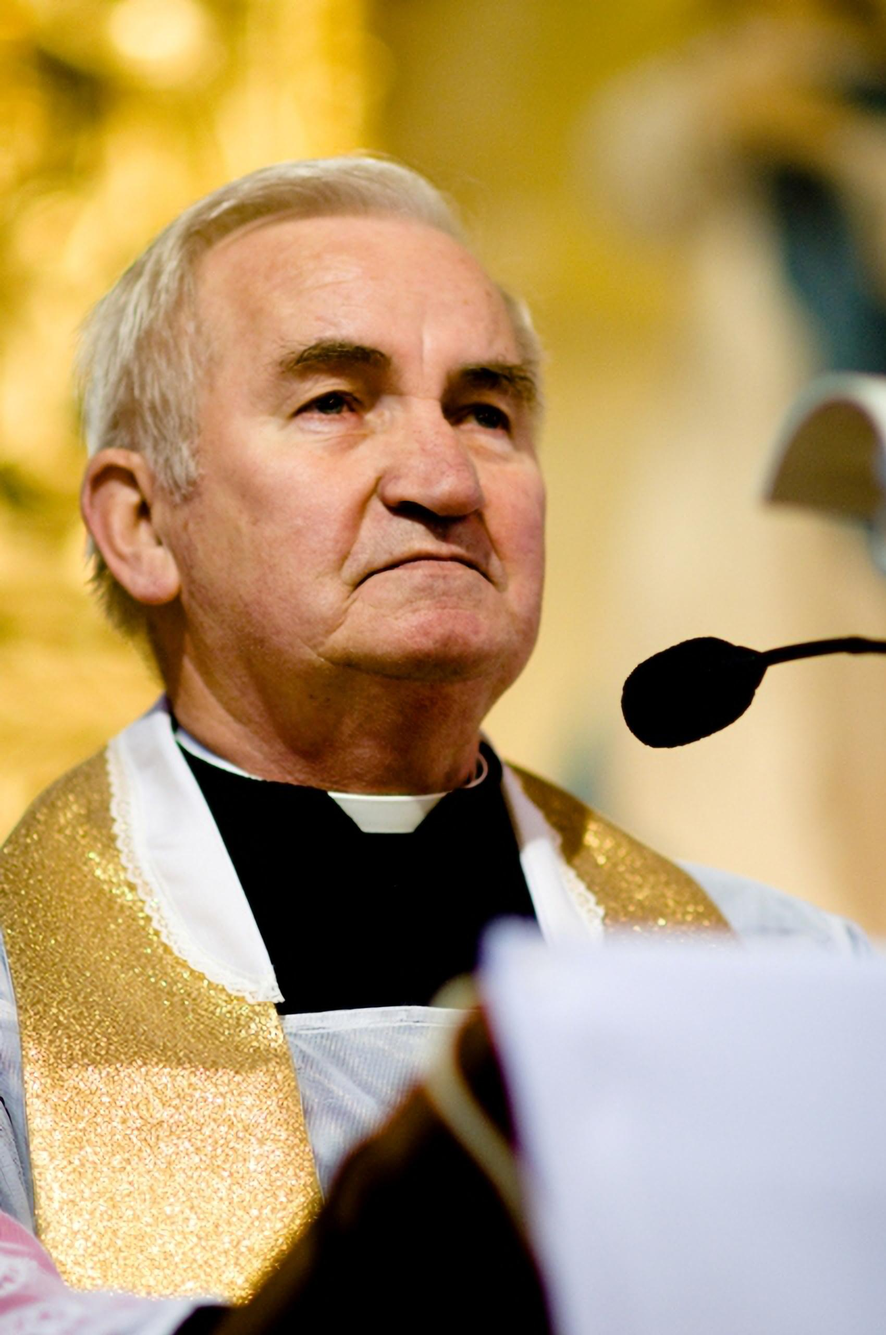
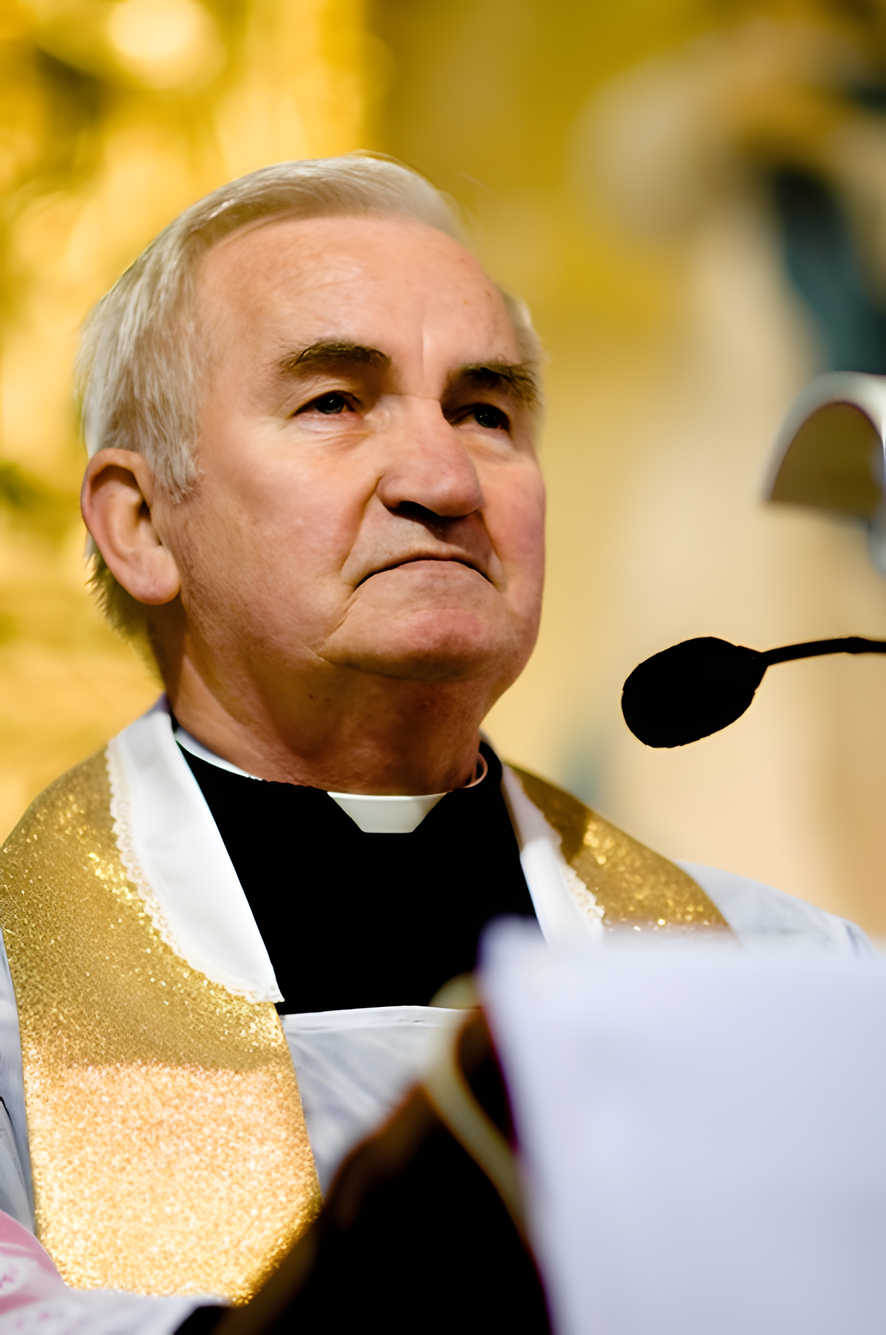
SCSS for section intro

diff --git a/index.html b/index.html
@@ -61,22 +61,27 @@
                             <use xlink:href="img/symbol-defs.svg#icon-youtube"></use>
                         </svg>
                     </a>
-                </div> 
+                </div>
+                
+                <span class="page-welcome-wrapper__arrow-down">&darr;</span>
             </div>    
         </header>
 
         <main class="main-content">
             <section class="section-intro" id="intro">
-                <h2 class="heading heading-2">Ksiądz Prałat Franciszek Skorusa</h2>
-                <p class="section-intro__text">
-                    Ksiądz Prałat Franciszek Skorusa to pierwszy proboszcz parafii oraz budowniczy kościoła Najświętszej Maryi Panny Nieustającej Pomocy we Wrocławiu-Muchoborze Małym.
-                    Urzeczeni Jego niezłomnym świadectwem wiary, zaufaniem, jakim obdarzał nasze inicjatywy, oraz serdecznością, jaką otaczał każdego człowieka, postanowiliśmy stworzyć miejsce, w którym można Go wspominać, ale też lepiej poznać nie tylko jako kapłana, ale też jako przyjaciela i wzór godny naśladowania.                
-                </p>
-                <div class="section-intro__image-frame">
-                    <img src="" title="Ksiądz Franciszek" alt="Franciszek Skorusa podczas głoszenia homiliid" class="section-intro__image">
+                <div class="section-intro__wrapper">
+                    <div class="section-intro__content-frame">
+                        <h2 class="heading-2 heading--intro">Ksiądz Prałat Franciszek Skorusa</h2>
+                        <p class="section-intro__text u-margin-top-small">
+                            Ksiądz Prałat Franciszek Skorusa to pierwszy proboszcz parafii oraz budowniczy kościoła Najświętszej Maryi Panny Nieustającej Pomocy we Wrocławiu-Muchoborze Małym.
+                            Urzeczeni Jego niezłomnym świadectwem wiary, zaufaniem, jakim obdarzał nasze inicjatywy, oraz serdecznością, jaką otaczał każdego człowieka, postanowiliśmy stworzyć miejsce, w którym można Go wspominać, ale też lepiej poznać nie tylko jako kapłana, ale też jako przyjaciela i wzór godny naśladowania.                
+                        </p>
+                    </div>
+                    <img src="./img/skorusa-homilia.jpg" title="Ksiądz Franciszek" alt="Franciszek Skorusa podczas głoszenia homiliid" class="section-intro__image">
                 </div>
             </section>
             <section class="section-timelapse" id="timelapse">
+                <h2 class="heading-2 heading--primary">Życie</h2>
                 <div class="section-timelapse__stage-wrapper section-timelapse__stage-wrapper--1">
                     <h2 class="heading heading-3">Przyjście na świat</h2>
                     <h3 class="heading heading-2">1940</h3>
@@ -85,9 +90,9 @@
                     Urzeczeni Jego niezłomnym świadectwem wiary, zaufaniem, jakim obdarzał nasze inicjatywy, oraz serdecznością, jaką otaczał każdego człowieka, postanowiliśmy stworzyć miejsce, w którym można Go wspominać, ale też lepiej poznać nie tylko jako kapłana, ale też jako przyjaciela i wzór godny naśladowania.
                     </p> 
                 </div>
-                <img src="" alt="" class="img img-1">
+                <img src="/img/timeline-photo-1.jpg" alt="" class="img img-1">
 
-                <div class="section-timelapse__stage-wrapper section-timelapse__stage-wrapper--1">
+                <div class="section-timelapse__stage-wrapper section-timelapse__stage-wrapper--2">
                     <h2 class="heading heading-3">Prymicje</h2>
                     <h3 class="heading heading-2">1960&nbsp;&ndash;&nbsp;1966</h3>
                     <p class="section-timelapse__stage-wrapper-text">
@@ -95,9 +100,9 @@
                         Urzeczeni Jego niezłomnym świadectwem wiary, zaufaniem, jakim obdarzał nasze inicjatywy, oraz serdecznością, jaką otaczał każdego człowieka, postanowiliśmy stworzyć miejsce, w którym można Go wspominać, ale też lepiej poznać nie tylko jako kapłana, ale też jako przyjaciela i wzór godny naśladowania.
                     </p> 
                 </div>
-                <img src="" alt="" class="img img-2">
+                <img src="/img/timeline-photo-2.jpg" alt="" class="img img-2">
 
-                <div class="section-timelapse__stage-wrapper section-timelapse__stage-wrapper--1">
+                <div class="section-timelapse__stage-wrapper section-timelapse__stage-wrapper--3">
                     <h2 class="heading heading-3">Wikariat</h2>
                     <h3 class="heading heading-2">1966&nbsp;&ndash;&nbsp;1980</h3>
                     <p class="section-timelapse__stage-wrapper-text">
@@ -105,9 +110,9 @@
                             Urzeczeni Jego niezłomnym świadectwem wiary, zaufaniem, jakim obdarzał nasze inicjatywy, oraz serdecznością, jaką otaczał każdego człowieka, postanowiliśmy stworzyć miejsce, w którym można Go wspominać, ale też lepiej poznać nie tylko jako kapłana, ale też jako przyjaciela i wzór godny naśladowania.
                         </p> 
                     </div>
-                <img src="" alt="" class="img img-3">
+                <img src="/img/timeline-photo-3.jpg" alt="" class="img img-3">
 
-                <div class="section-timelapse__stage-wrapper section-timelapse__stage-wrapper--1">
+                <div class="section-timelapse__stage-wrapper section-timelapse__stage-wrapper--4">
                     <h2 class="heading heading-3">Probostwo</h2>
                     <h3 class="heading heading-2">1980&nbsp;&ndash;&nbsp;2010</h3>
                     <p class="section-timelapse__stage-wrapper-text">
@@ -116,17 +121,17 @@
                     </p> 
                 </div>
 
-                <img src="" alt="" class="img img-4">
+                <img src="/img/timeline-photo-4.jpg" alt="" class="img img-4">
 
-                <div class="section-timelapse__stage-wrapper section-timelapse__stage-wrapper--1">
-                    <h2 class="heading heading--tertiary">Odejście</h2>
-                    <h3 class="heading heading--secondary">2010</h3>
+                <div class="section-timelapse__stage-wrapper section-timelapse__stage-wrapper--5">
+                    <h2 class="heading heading-3">Odejście</h2>
+                    <h3 class="heading heading-2">2010</h3>
                     <p class="section-timelapse__stage-wrapper-text">
                         Ksiądz Prałat Franciszek Skorusa to pierwszy proboszcz parafii oraz budowniczy kościoła Najświętszej Maryi Panny Nieustającej Pomocy we Wrocławiu-Muchoborze Małym.
                         Urzeczeni Jego niezłomnym świadectwem wiary, zaufaniem, jakim obdarzał nasze inicjatywy, oraz serdecznością, jaką otaczał każdego człowieka, postanowiliśmy stworzyć miejsce, w którym można Go wspominać, ale też lepiej poznać nie tylko jako kapłana, ale też jako przyjaciela i wzór godny naśladowania.
                     </p> 
                 </div>
-                <img src="" alt="" class="img img-5">
+                <img src="/img/timeline-photo-5.jpg" alt="" class="img img-5">
 
                 <div class="section-timelaps__line">&nbsp;</div>
             </section>

diff --git a/css/style.css b/css/style.css
@@ -1,3 +1,35 @@
+@keyframes jump {
+  0% {
+    transform: translateY(-0.5rem); }
+  50% {
+    transform: translateY(0.3rem); }
+  100% {
+    transform: translateY(-0.5rem); } }
+
+.section-intro {
+  display: flex;
+  align-items: center;
+  justify-content: center;
+  box-shadow: 0 1.5rem 4rem rgba(66, 66, 66, 0.1); }
+  .section-intro__wrapper {
+    display: flex;
+    align-items: center;
+    justify-content: center;
+    max-width: 50rem; }
+  .section-intro__content-frame {
+    padding: 5rem;
+    text-align: right; }
+  .section-intro__image {
+    height: 100%;
+    object-fit: cover;
+    display: block;
+    margin-left: auto;
+    padding: 1rem;
+    box-shadow: 0 1.5rem 4rem rgba(66, 66, 66, 0.1); }
+  .section-intro__text {
+    font-size: 1.1rem;
+    margin-right: auto; }
+
 .heading-1 {
   font-size: 1.5rem; }
 
@@ -11,7 +43,14 @@
   color: #C9C550; }
 
 .heading--light {
-  color: #fff; }
+  color: #fafafa; }
+
+.heading--intro {
+  font-size: 1.8rem;
+  display: inline-block;
+  background-image: linear-gradient(to right, #C9C550, #c8c44d);
+  -webkit-background-clip: text;
+  color: transparent; }
 
 .page-header {
   height: 100vh;
@@ -29,21 +68,33 @@
   display: flex;
   flex-direction: column;
   background-image: linear-gradient(rgba(66, 66, 66, 0.48), rgba(66, 66, 66, 0.48)), url(../img/background-photo-large.jpg);
-  background-size: cover; }
+  background-size: cover;
+  background-repeat: no-repeat; }
   .page-welcome-wrapper__socialmedia-icons {
     position: absolute;
     right: 0;
     bottom: 0;
     padding: 1.5rem; }
   .page-welcome-wrapper__socialmedia-link {
-    display: block; }
+    display: block;
+    color: #fafafa; }
   .page-welcome-wrapper__socialmedia-icon {
     max-width: 2rem;
     max-height: 3.2rem;
-    fill: #fff; }
-
-.heading-primary {
-  font-family: "Rosario", sans-serif; }
+    fill: currentColor; }
+  .page-welcome-wrapper__arrow-down {
+    width: 5rem;
+    height: 5rem;
+    color: #fafafa;
+    font-size: 3rem;
+    text-align: center;
+    position: absolute;
+    bottom: 0;
+    left: 0;
+    animation-name: jump;
+    animation-duration: 1s;
+    animation-iteration-count: infinite;
+    animation-fill-mode: both; }
 
 .u-margin-top-small {
   margin-top: 1.5rem; }
@@ -67,13 +118,15 @@ body {
   font-size: 62.5%;
   font-family: "Rosario", sans-serif;
   font-weight: 300;
-  font-smooth: antialiased;
-  -webkit-font-smoth: antialiased;
-  -moz-font-smooth: antialiased; }
+  font-smooth: always;
+  -webkit-font-smoothing: antialiased;
+  -moz-font-smoothing: antialiased; }
+  body img {
+    width: 300px; }
 
 ::selection {
   background-color: #C9C550;
-  color: #fff; }
+  color: #fafafa; }
 
 .btn:link, .btn:visited {
   display: block;
@@ -86,9 +139,9 @@ body {
   cursor: pointer; }
 
 .btn--primary {
-  color: #fff;
+  color: #fafafa;
   background-color: #C9C550; }
 
 .btn--light {
   color: #C9C550;
-  background-color: #fff; }
+  background-color: #fafafa; }

diff --git a/sass/layout/_header.scss b/sass/layout/_header.scss
@@ -19,6 +19,7 @@
         linear-gradient(rgba(#424242, .48), rgba(#424242, .48)), 
         url(../img/background-photo-large.jpg);
     background-size: cover;
+    background-repeat: no-repeat;
 
     &__socialmedia-icons {
         position: absolute;
@@ -29,12 +30,27 @@
 
     &__socialmedia-link {
         display: block;
+        color: $font-color-light;
     }
 
     &__socialmedia-icon {
         max-width: 2rem;
         max-height: 3.2rem;
-        fill: $font-color-light;
-        
+        fill: currentColor;
+    }
+
+    &__arrow-down {
+        width: 5rem;
+        height: 5rem;
+        color: $font-color-light;
+        font-size: 3rem;
+        text-align: center;
+        position: absolute;
+        bottom: 0;
+        left: 0;
+        animation-name: jump;
+        animation-duration: 1s;
+        animation-iteration-count: infinite;
+        animation-fill-mode: both;
     }
 }

diff --git a/sass/layout/_intro.scss b/sass/layout/_intro.scss
@@ -1,0 +1,33 @@
+.section-intro {
+
+    display: flex;
+    align-items: center;
+    justify-content: center;
+    box-shadow: 0 1.5rem 4rem rgba($font-color-dark, .1);
+
+    &__wrapper {
+        display: flex;
+        align-items: center;
+        justify-content: center;
+        max-width: 50rem;
+    }
+
+    &__content-frame {
+        padding: 5rem;
+        text-align: right;
+    }
+
+    &__image {
+        height: 100%;
+        object-fit: cover;
+        display: block;
+        margin-left: auto;
+        padding: 1rem;
+        box-shadow: 0 1.5rem 4rem rgba($font-color-dark, .1);
+    }
+
+    &__text {
+        font-size: 1.1rem;
+        margin-right: auto;
+    }
+}

diff --git a/sass/layout/_headings.scss b/sass/layout/_headings.scss
@@ -1,5 +1,4 @@
-.heading {
-    
+.heading { 
     &-1 { font-size: 1.5rem; }
     &-2 { font-size: 2.5rem; }
     &-3 { font-size: 2rem; }
@@ -10,5 +9,13 @@
 
     &--light {
         color: $font-color-light;
+    }
+
+    &--intro {
+        font-size: 1.8rem;
+        display: inline-block;
+        background-image: linear-gradient(to right, $color-primary, darken($color-primary, .7));
+        -webkit-background-clip: text;
+        color: transparent;
     }
 }

diff --git a/sass/base/_base.scss b/sass/base/_base.scss
@@ -12,9 +12,13 @@ body {
     font-size: 62.5%;
     font-family: $font-text;
     font-weight: 300;
-    font-smooth: antialiased;
-    -webkit-font-smoth: antialiased;
-    -moz-font-smooth: antialiased;
+    font-smooth: always;
+    -webkit-font-smoothing: antialiased;
+    -moz-font-smoothing: antialiased;
+
+    img {
+        width: 300px;
+    }
 }
 
 ::selection {

diff --git a/sass/main.scss b/sass/main.scss
@@ -1,9 +1,11 @@
-
+@import "abstracts/animations";
 @import "abstracts/variables";
 @import "abstracts/mixins";
+@import "layout/intro";
 @import "layout/headings";
 @import "layout/header";
 @import "layout/layout";
 @import "base/utilities";
 @import "base/base";
+@import "components/timeline-step";
 @import "components/button";

diff --git a/sass/abstracts/_animations.scss b/sass/abstracts/_animations.scss
@@ -1,0 +1,14 @@
+@keyframes jump {
+
+    0% {
+        transform: translateY(-.5rem);
+    }
+
+    50% {
+        transform: translateY(.3rem);
+    }
+
+    100% {
+        transform: translateY(-.5rem);
+    }
+}

diff --git a/sass/abstracts/_variables.scss b/sass/abstracts/_variables.scss
@@ -1,5 +1,5 @@
 $color-primary: #C9C550;
 $font-color-dark: rgba(#424242, .7);
-$font-color-light: #fff;
+$font-color-light: #fafafa;
 $font-text: 'Rosario', sans-serif;
 $font-heading: 'Roboto', sans-serif;
